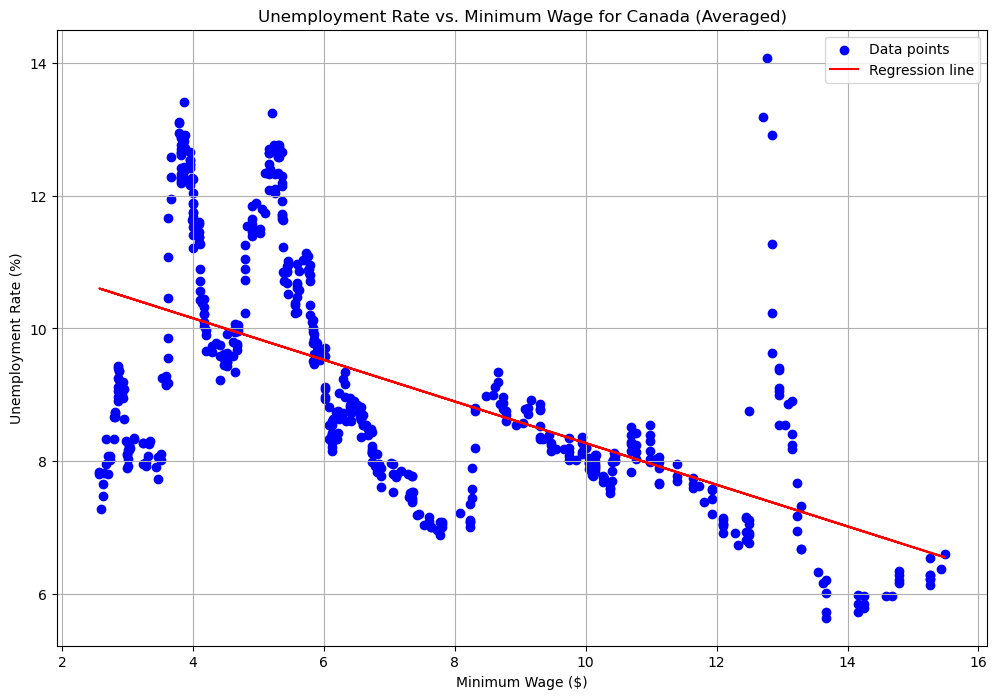
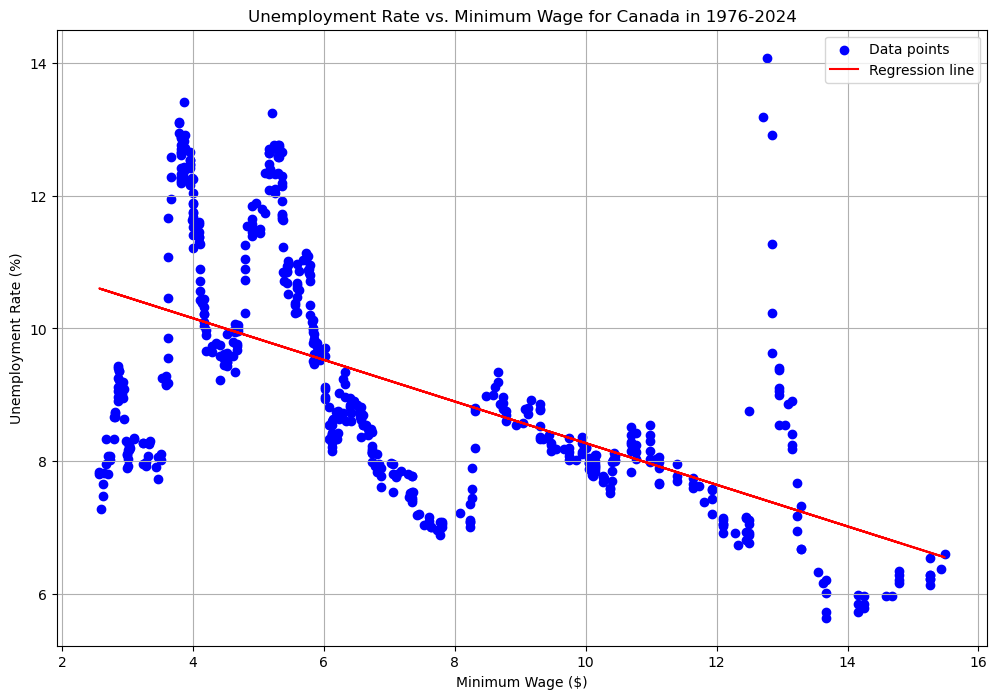
corrected README, regression by provices, replaced one image

Changed region(s): [[0.2487, 0.0, 0.8084, 0.03]]

diff --git a/README.md b/README.md
@@ -3,7 +3,7 @@
 ## Project #1: Impact of Minimum Wage Changes on Unemployment Rates in Canada
 ### Executive Summary
 
-This project presents findings from an extensive analysis exploring the impact of minimum wage changes on unemployment rates across Canadian provinces :canada:. Leveraging datasets from [Statistics Canada](./data/raw/unemployment_rates_data.csv) and the [Government of Canada](./data/raw/minimum_wage_data.csv), the team conducted thorough data analysis and regression modeling to investigate the relationships between minimum wage adjustments and unemployment dynamics. Key findings reveal significant variations across provinces, underscoring the influence of regional economic contexts on policy outcomes. These insights are vital for informing stakeholders about the implications of minimum wage policies on labor market dynamics.
+This project presents findings from an extensive analysis exploring the impact of minimum wage changes on unemployment rates across Canadian provinces in 1976-2024. Leveraging datasets from [Statistics Canada](./data/raw/unemployment_rates_data.csv) and the [Government of Canada](./data/raw/minimum_wage_data.csv), the team conducted thorough data analysis and regression modeling to investigate the relationships between minimum wage adjustments and unemployment dynamics. Key findings reveal significant variations across provinces, underscoring the influence of regional economic contexts on policy outcomes. These insights are vital for informing stakeholders about the implications of minimum wage policies on labor market dynamics.
 
 ### Project Overview
 
@@ -109,7 +109,7 @@ Key areas for future analysis include:
 
 :slightly_smiling_face:  This project contributes comprehensive insights into how minimum wage policies influence unemployment rates across Canadian provinces. By analyzing diverse datasets and employing robust methodologies, the findings provide valuable guidance for policymakers, businesses, and the public, aiding in informed decision-making and policy formulation.
 
-Overall, the observed negative correlations between minimum wage and unemployment rates in most provinces suggest that increasing the minimum wage can have :sparkles:positive economic effects:sparkles: , such as reducing unemployment and improving living standards for low-wage workers. These findings align more closely with contemporary economic theories like Keynesian economics and efficiency wage theory, rather than classical economic theory.
+Overall, the observed negative correlations between minimum wage and unemployment rates in most provinces suggest that :sparkles:**increasing the minimum wage can have positive economic effects**:sparkles: , such as reducing unemployment and improving living standards for low-wage workers. These findings align more closely with contemporary economic theories like Keynesian economics and efficiency wage theory, rather than classical economic theory.
 
 Whether higher minimum wages are "good" or "bad" depends on the balance between the positive impacts on worker incomes and economic demand, and the potential challenges faced by businesses and specific sectors. Policymakers need to consider these factors and regional economic conditions when setting minimum wage levels to maximize the benefits and minimize potential downsides.
 
